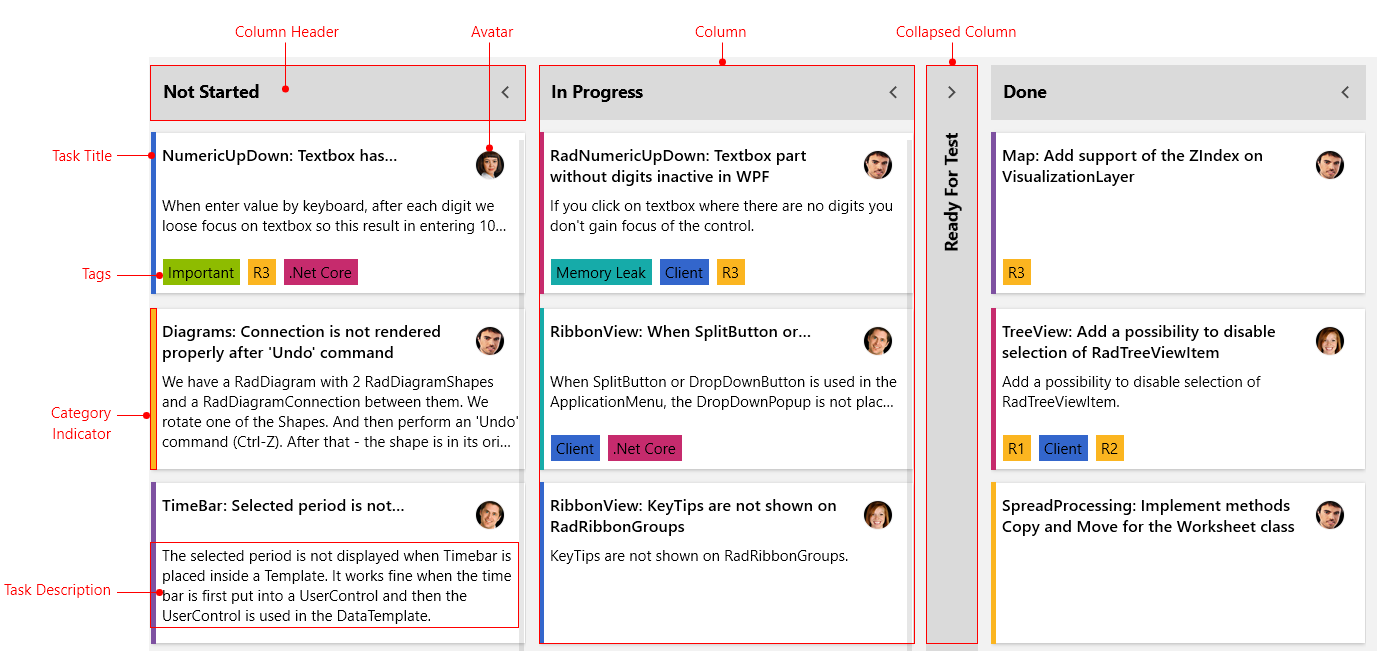
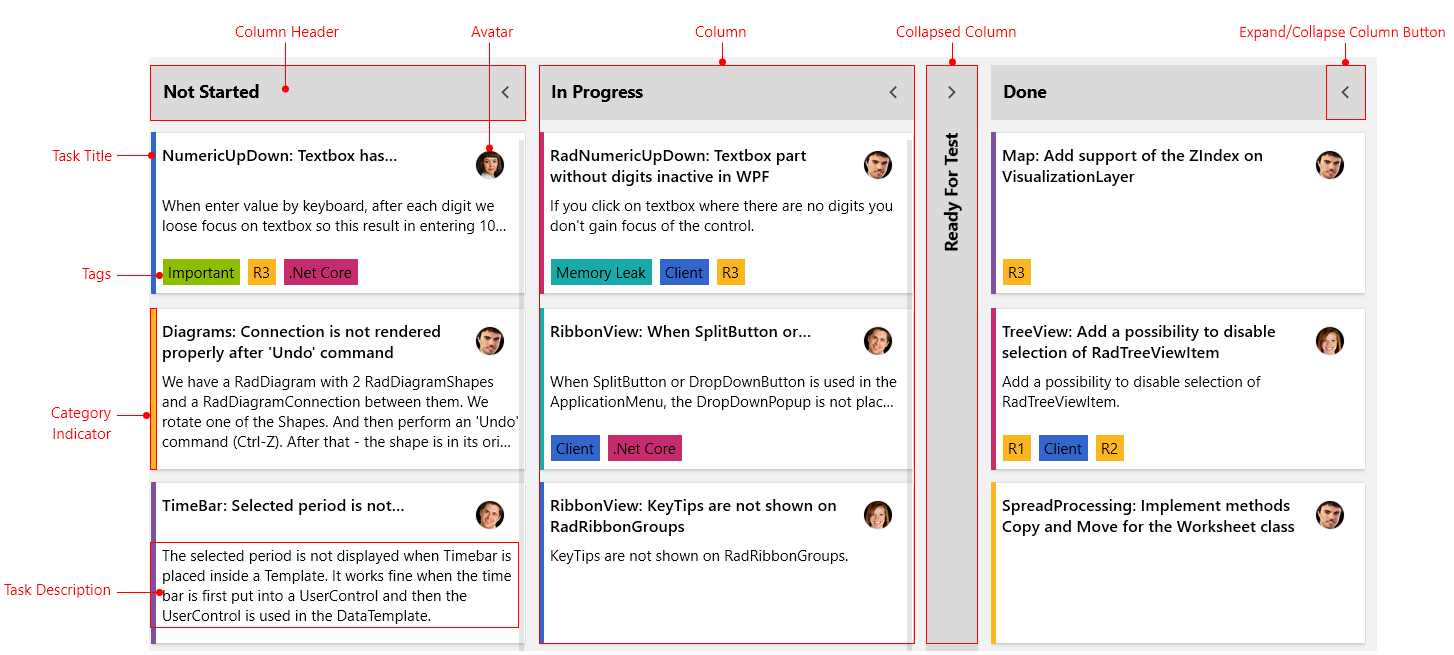
Updated Visual Structure

diff --git a/controls/radtaskboard/visual-structure.md b/controls/radtaskboard/visual-structure.md
@@ -15,14 +15,22 @@ This section defines terms and concepts used in the scope of the __RadTaskBoard_
 ![RadTaskBoard visual structure](images/taskboard_visual_structure.png)
 
 * **Column**: Essential building block, represented by the base class __TaskBoardColumn__. The columns inside the control can be collapsed, renamed or auto-generated based on the underlying data source.
+
 * **Collapsed Column**: Represents the __TaskBoardColumn__ in a collapsed state. 
+
 * **Column Header**: Represents the header of the columns inside the RadTaskBoard control.
+
 * **Task Title**: Represents the title of the task item.
+
 * **Avatar**: Represents the container for the icon image of the RadTaskBoard item.
+
 * **Tags**: Displays a collection of highlight objects applied to a given item.
+
 * **Category Indicator**: Represents the color container for a RadTaskBoard item.
+
 * **Task Description**: Represents the description of the item.
 
-## See Also
+* **Expand/Collapse Column Button**: Collapses and expands the column.
 
+## See Also  
 * [Getting Started]({%slug radtaskboard-getting-started%})
